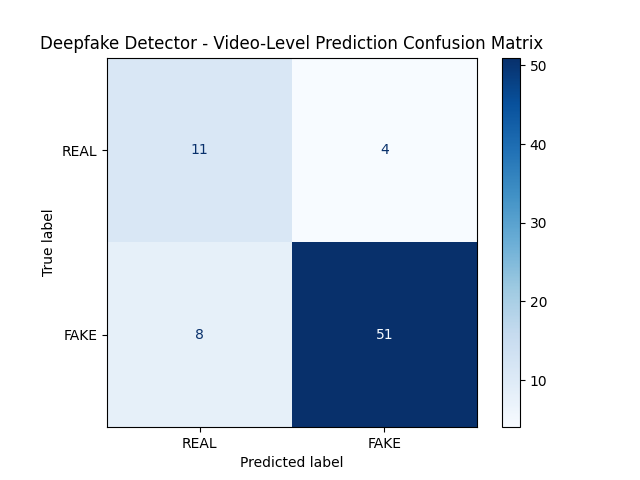
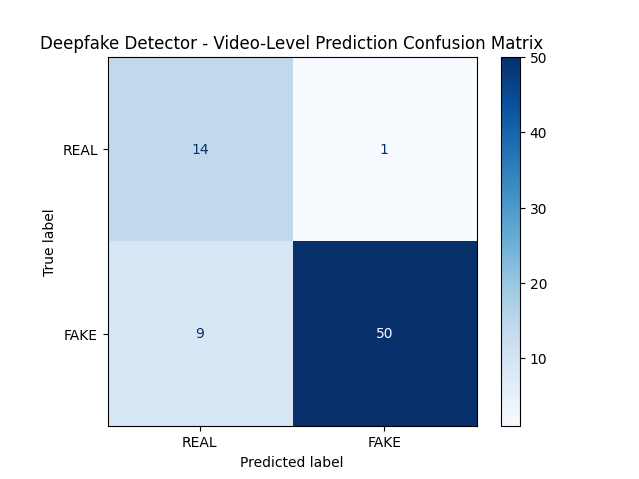
results for meso ssim

diff --git a/MesoNet_SSIM.py b/MesoNet_SSIM.py
@@ -17,7 +17,7 @@ from sklearn.manifold import TSNE
 
 # GPU
 os.environ['TF_CPP_MIN_LOG_LEVEL'] = '1'
-os.environ['CUDA_VISIBLE_DEVICES'] = '6'
+os.environ['CUDA_VISIBLE_DEVICES'] = '1'
 physical_devices = tf.config.list_physical_devices('GPU')
 for gpu in physical_devices:
     tf.config.experimental.set_memory_growth(gpu, True)
@@ -146,7 +146,7 @@ history = model.fit(
     steps_per_epoch=len(train_generator),
     validation_data=val_generator_dual,
     validation_steps=len(val_generator),
-    epochs=1,
+    epochs=200,
     callbacks=[checkpoint_cb, early_stopping_cb],
     class_weight=class_weight_dict,
     verbose=1
@@ -207,83 +207,3 @@ plt.grid(True)
 plt.tight_layout()
 plt.savefig("tsne_visualisering.png")
 plt.close()
-count = 0
-
-while True:
-    test_batch = next(test_generator_dual.as_numpy_iterator())
-    (test_images, ssim_maps, ssim_stats), test_labels = test_batch
-
-    sample_idx = 0
-    rgb_image = test_images[sample_idx]
-    ssim_map = ssim_maps[sample_idx]
-    stats = ssim_stats[sample_idx]
-    true_label = int(test_labels[sample_idx])
-
-    sample_prediction = model.predict([
-        np.expand_dims(rgb_image, 0),
-        np.expand_dims(ssim_map, 0),
-        np.expand_dims(stats, 0)
-    ])[0][0]
-    predicted_class = 1 if sample_prediction > threshold else 0
-
-    penultimate_layer_name = None
-    for layer in reversed(model.layers):
-        if isinstance(layer, tf.keras.layers.Conv2D):
-            penultimate_layer_name = layer.name
-            break
-
-    gradcam = Gradcam(model, model_modifier=ReplaceToLinear())
-
-    def loss_fn(output): 
-        return output
-
-    heatmap = gradcam(
-        loss_fn,
-        [np.expand_dims(rgb_image, axis=0),
-        np.expand_dims(ssim_map, axis=0),
-        np.expand_dims(stats, axis=0)],
-        penultimate_layer=penultimate_layer_name,
-        seek_penultimate_conv_layer=True,
-        expand_cam=False,  # Viktig: slå av automatisk zooming
-        normalize_cam=True  # Normaliser output
-    )
-
-    # Process heatmap
-    heatmap = np.squeeze(heatmap)
-    if len(heatmap.shape) > 2:  # If still multi-channel
-        heatmap = heatmap[0]  # Take first channel (or np.mean(heatmap, axis=0))
-    heatmap = np.maximum(heatmap, 0)
-    heatmap /= np.max(heatmap)
-
-    # Simple overlay function if you don't have overlay_heatmap
-    def simple_overlay(image, heatmap, alpha=0.5):
-        heatmap = cv2.resize(heatmap, (image.shape[1], image.shape[0]))
-        heatmap = np.uint8(255 * heatmap)
-        heatmap = cv2.applyColorMap(heatmap, cv2.COLORMAP_JET)
-        return cv2.addWeighted(image, alpha, heatmap, 1-alpha, 0)
-
-    # Visualization (same as before)
-    rgb_image_uint8 = (rgb_image * 255).astype(np.uint8)
-    overlay = simple_overlay(rgb_image_uint8, heatmap)
-
-    # Plot results
-    plt.figure(figsize=(10, 5))
-    plt.subplot(1, 2, 1)
-    plt.imshow(rgb_image_uint8)
-    plt.title(f"Original\nTrue: {mapping_label[true_label]}\nPred: {mapping_label[predicted_class]} ({sample_prediction:.2f})")
-    plt.axis('off')
-
-    plt.subplot(1, 2, 2)
-    plt.imshow(overlay)
-    plt.title("Overlay")
-    plt.axis('off')
-
-    plt.tight_layout()
-    plt.savefig(f"gradcam_overlay_{count}.png")
-    #plt.show()
-    count += 1
-    
-    # Ask user if they are satisfied
-    user_input = input("Do you want to see another plot? Type 'exit' to stop, anything else to continue: ").strip().lower()
-    if user_input == 'exit':
-        break

diff --git a/Results/results.md b/Results/results.md
@@ -44,12 +44,12 @@ Auc_roc   : 0.9288
 Parameters: 24,233
 
 # Mesonet SSIM
-Classification Metrics:<br>
-Accuracy  : 0.8378<br>
-Precision : 0.9273<br>
-Recall    : 0.8644<br>
-F1        : 0.8947<br>
-Auc_roc   : 0.9141
+Classification Metrics:
+Accuracy  : 0.8649
+Precision : 0.9804
+Recall    : 0.8475
+F1        : 0.9091
+Auc_roc   : 0.9650
 Parameters: 53,473 
 
 # MesoNet-Inception
@@ -80,12 +80,12 @@ Auc_roc   : 0.8023
 Parameters: 85,799,425
 
 # Transformer SSIM
-Classification Metrics:<br>
-Accuracy  : 0.7973<br>
-Precision : 0.7973<br>
-Recall    : 1.0000<br>
-F1        : 0.8872<br>
-Auc_roc   : 0.5000<br>
+Classification Metrics:
+Accuracy  : 0.7162
+Precision : 0.8519
+Recall    : 0.7797
+F1        : 0.8142
+Auc_roc   : 0.7548
 Parameters: 86,222,401
 
 # MobileNet
